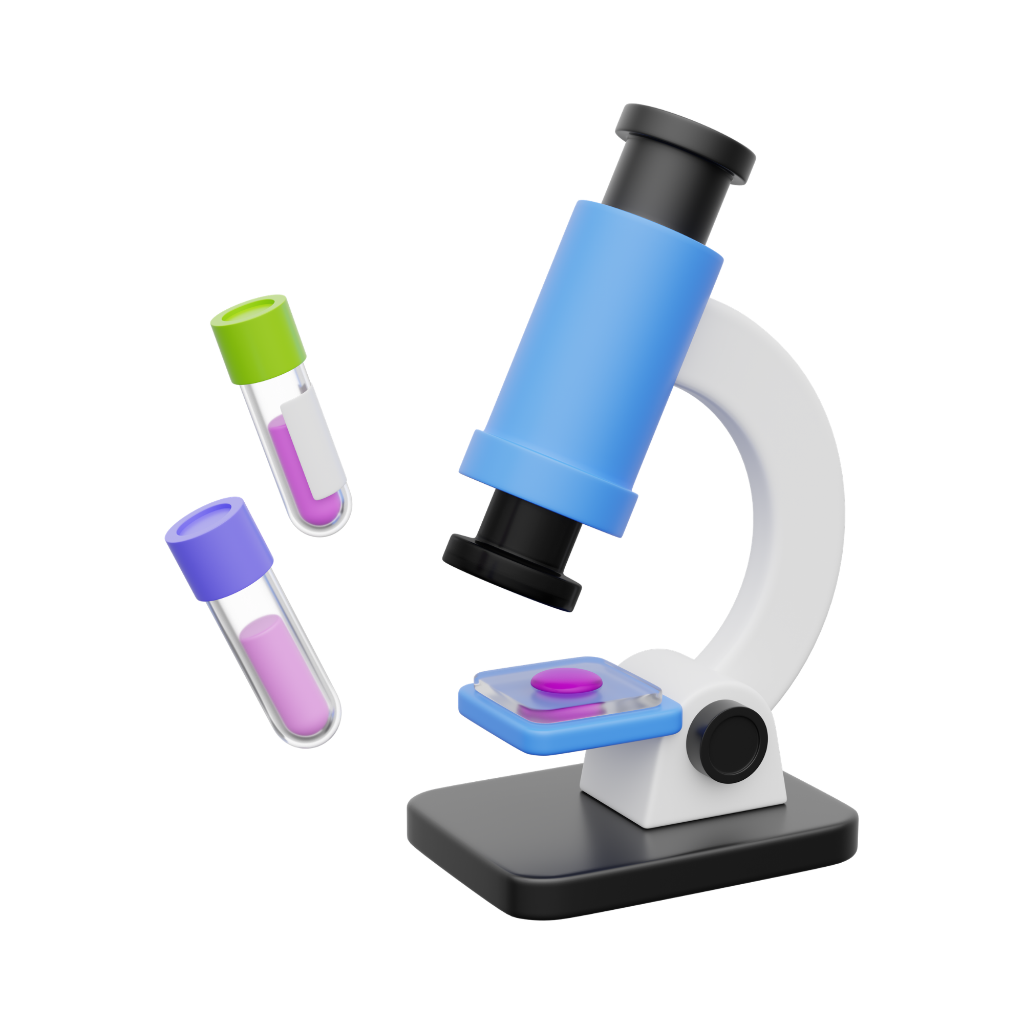
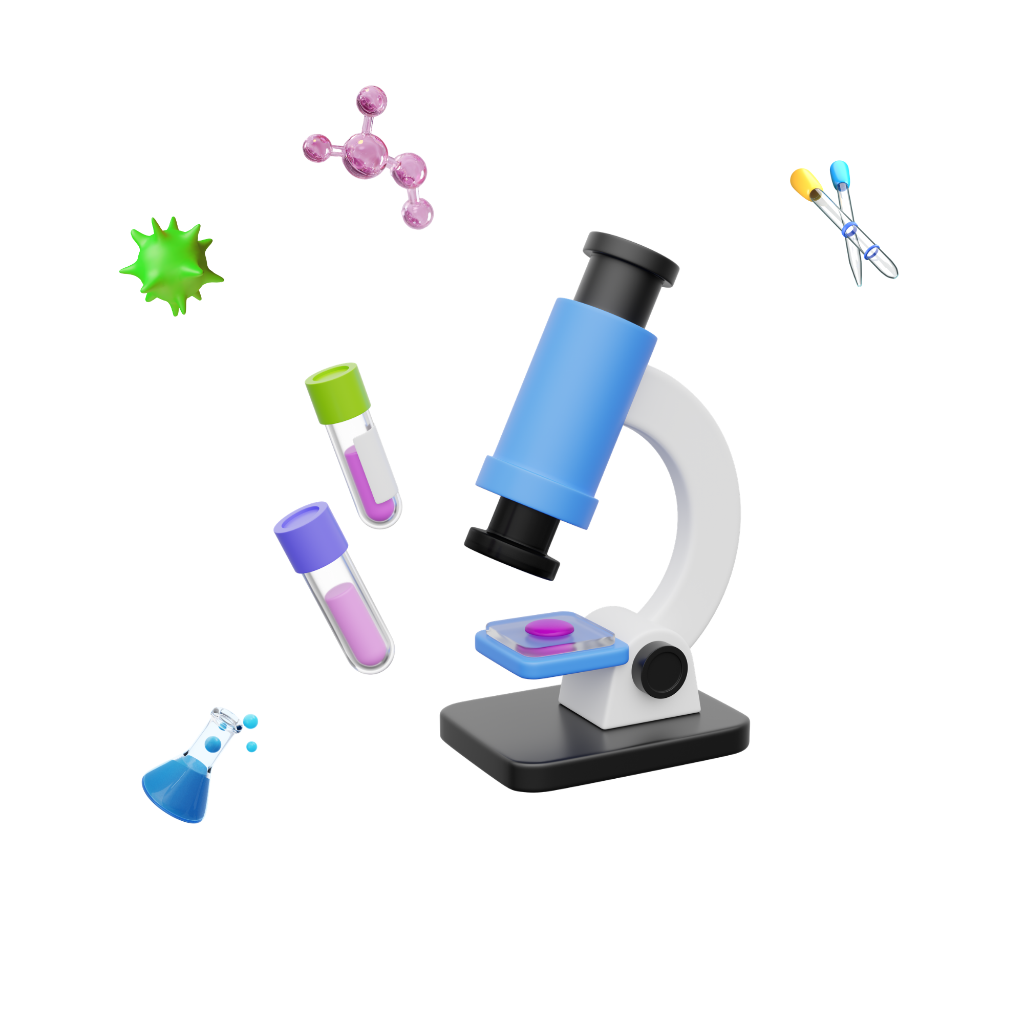
feat: update MicroscopeCenterpiece styling and enhance Home page layout

Changed region(s): [[0.375, 0.0938, 0.875, 0.9062], [0.125, 0.2188, 0.4062, 0.8125], [0.2812, 0.0625, 0.4375, 0.2188]]

diff --git a/src/pages/Home.tsx b/src/pages/Home.tsx
@@ -194,7 +194,7 @@ function PremiumReagentIcon({ name, className = "w-5 h-5" }: { name: string; cla
 
 function MicroscopeCenterpiece() {
   return (
-    <div className="relative w-full aspect-square max-w-[340px] lg:max-w-[420px] flex items-center justify-center mx-auto">
+    <div className="relative w-full aspect-square max-w-[340px] sm:max-w-[380px] lg:max-w-[460px] flex items-center justify-center mx-auto">
       {/* Outer soft glowing emerald circle */}
       <div className="absolute inset-0 bg-[radial-gradient(circle_at_center,rgba(32,199,122,0.12)_0%,transparent_70%)] animate-pulse" />
       
@@ -206,7 +206,7 @@ function MicroscopeCenterpiece() {
       <motion.div
         animate={{ y: [0, -8, 0] }}
         transition={{ duration: 6, repeat: Infinity, ease: "easeInOut" }}
-        className="relative z-10 w-[240px] h-[240px] flex items-center justify-center"
+        className="relative z-10 w-[92%] h-[92%] flex items-center justify-center"
       >
         <img 
           src="/reagents_microscope.png" 
@@ -311,146 +311,30 @@ export default function Home() {
           </div>
         </div>
       </section>
-{/* 2. SERVICES & CAPABILITIES SECTION */}
-<section className="py-20 md:py-28 px-6 bg-[#050505] text-white relative overflow-hidden border-t border-white/10">
-  <div className="max-w-[1400px] mx-auto relative z-10">
-    <div className="text-center max-w-3xl mx-auto mb-16">
-      <span className="text-[#FF4D00] text-xs font-semibold tracking-[0.2em] uppercase mb-4 block">
-        OUR CORE SERVICES & SOLUTIONS
-      </span>
-      <h2 className="text-[clamp(1.75rem,6vw,3.75rem)] font-bold tracking-tight text-white mb-6 leading-tight">
-        Biotechnology Services & <span className="text-[#FF4D00]">Capabilities</span>
-      </h2>
-      <p className="text-neutral-400 text-base md:text-lg font-light leading-relaxed">
-        Explore our core scientific offerings — from nucleic acid and protein research to laboratory reagents, computational analysis, and professional training.
-      </p>
-    </div>
-    <ServicesStrip />
-  </div>
-</section>
-      {/* 2. WHO WE ARE & STATS SECTION */}
-      <section className="py-20 md:py-24 px-6 bg-[#F5F5F3] relative overflow-hidden text-[#050505] border-t border-[#E5E5E5]/40">
-        {/* Subtle Molecular / DNA Wave Graphics Background */}
-        <div className="absolute right-0 top-1/2 -translate-y-1/2 w-[600px] h-[600px] opacity-[0.05] pointer-events-none z-0 select-none" aria-hidden="true">
-          <svg viewBox="0 0 400 400" fill="none" xmlns="http://www.w3.org/2000/svg" className="w-full h-full">
-            <path d="M50,200 Q100,100 150,200 T250,200 T350,200" stroke="#FF4D00" strokeWidth="2.5" />
-            <path d="M50,200 Q100,300 150,200 T250,200 T350,200" stroke="#FF4D00" strokeWidth="2.5" strokeDasharray="5 5" />
-            <line x1="100" y1="145" x2="100" y2="255" stroke="#FF4D00" strokeWidth="1" />
-            <line x1="150" y1="200" x2="150" y2="200" stroke="#FF4D00" strokeWidth="1" />
-            <line x1="200" y1="145" x2="200" y2="255" stroke="#FF4D00" strokeWidth="1" />
-            <line x1="250" y1="200" x2="250" y2="200" stroke="#FF4D00" strokeWidth="1" />
-            <line x1="300" y1="145" x2="300" y2="255" stroke="#FF4D00" strokeWidth="1" />
-          </svg>
-        </div>
-
+      {/* 1. SERVICES & CAPABILITIES SECTION */}
+      <section className="py-20 md:py-28 px-6 bg-[#050505] text-white relative overflow-hidden border-t border-white/10">
         <div className="max-w-[1400px] mx-auto relative z-10">
-          <div className="flex flex-col lg:flex-row w-full gap-12 lg:gap-20">
-            
-            {/* LEFT COLUMN: PRIMARY CONTENT AREA */}
-            <motion.div 
-              initial={{ opacity: 0, y: 30 }}
-              whileInView={{ opacity: 1, y: 0 }}
-              viewport={{ once: true, margin: "-100px" }}
-              transition={{ duration: 0.8, ease: [0.16, 1, 0.3, 1] }}
-              className="w-full lg:w-[45%] flex flex-col"
-            >
-              {/* Section Label */}
-              <span className="text-[#FF4D00] text-[10px] font-bold tracking-[0.2em] uppercase mb-4 sm:mb-6 block">
-                01 / WHO WE ARE
-              </span>
-
-              {/* Main Heading */}
-              <h2 className="text-[clamp(2.25rem,6vw,4.5rem)] font-medium text-[#050505] leading-[1.05] tracking-tight mb-6">
-                Science That<br />
-                Moves Research<br />
-                <span className="text-[#FF4D00] italic pr-4">Forward.</span>
-              </h2>
-
-              {/* Company Descriptions */}
-              <div className="space-y-4 mb-8 sm:mb-10 max-w-xl">
-                <p className="text-base leading-relaxed text-[#050505] font-medium">
-                  INNOVAC BIOTECHNOLOGIES provides biotechnology, molecular biology, protein research, reagents, computational biology, internship, and professional training solutions.
-                </p>
-                <p className="text-sm leading-relaxed text-neutral-500 font-light">
-                  Our goal is to empower researchers and organizations with practical scientific services and innovative biotechnology solutions.
-                </p>
-              </div>
-
-              {/* Learn More Button (Mobile only) */}
-              <div className="mt-8 sm:mt-12 flex justify-start w-full lg:hidden">
-                <Link 
-                  to="/about-us" 
-                  className="inline-flex items-center justify-center gap-3 bg-white border border-[#E5E5E5] hover:border-[#050505] text-[#050505] rounded-full px-8 py-4 text-[11px] sm:text-xs font-bold uppercase tracking-widest transition-all duration-300 group shadow-sm focus:outline-none whitespace-nowrap"
-                >
-                  <span>LEARN MORE ABOUT US</span>
-                  <ArrowRight size={14} className="group-hover:translate-x-1 transition-transform duration-300 shrink-0" />
-                </Link>
-              </div>
-            </motion.div>
-
-            {/* RIGHT COLUMN: Supporting Blocks Grid */}
-            <div className="w-full lg:w-[55%] flex flex-col mt-12 lg:mt-0">
-              <div className="grid grid-cols-1 md:grid-cols-2 gap-x-8 gap-y-10 lg:gap-y-12 content-start">
-                {[
-                  { num: '01', title: 'Integrated Research Platform', desc: 'Connected scientific services, research support, and expertise.', img: '/who_we_are_1.png' },
-                  { num: '02', title: 'Training Pathways', desc: 'Internship, workshop, and professional learning opportunities.', img: '/who_we_are_2.png' },
-                  { num: '03', title: 'Core Scientific Areas', desc: 'Focused expertise across key scientific and biotechnology domains.', img: '/who_we_are_3.png' },
-                  { num: '04', title: 'Service Categories', desc: 'A broad range of services supporting research and laboratory needs.', img: '/who_we_are_4.png' },
-                ].map((block, i) => (
-                  <motion.div 
-                    key={i}
-                    initial={{ opacity: 0, y: 20 }}
-                    whileInView={{ opacity: 1, y: 0 }}
-                    viewport={{ once: true, margin: "-50px" }}
-                    transition={{ duration: 0.6, delay: 0.1 * i }}
-                    className="flex flex-col group/block"
-                  >
-                    <div className="mb-2">
-                       <span className="text-3xl font-medium text-[#050505] tracking-tight group-hover/block:text-[#FF4D00] transition-colors">{block.num}</span>
-                       <div className="w-6 h-[1px] bg-[#050505]/20 group-hover/block:bg-[#FF4D00] mt-3 mb-5 transition-colors" />
-                    </div>
-                    
-                    <div className="flex items-start gap-4 sm:gap-5">
-                      {block.img ? (
-                        <div className="w-16 h-16 sm:w-20 sm:h-20 shrink-0 bg-white rounded-[12px] border border-[#E5E5E5]/60 flex items-center justify-center p-2 sm:p-2.5 shadow-sm group-hover/block:border-[#FF4D00]/30 transition-colors">
-                          <img src={block.img} alt={block.title} className="w-full h-full object-contain group-hover/block:scale-110 transition-transform duration-500" />
-                        </div>
-                      ) : (
-                        <div className="w-16 h-16 sm:w-20 sm:h-20 shrink-0 bg-white rounded-[12px] border border-[#E5E5E5]/60 flex items-center justify-center p-2 sm:p-2.5 shadow-sm group-hover/block:border-[#FF4D00]/30 transition-colors relative overflow-hidden">
-                          <div className="absolute inset-0 bg-[#F5F5F3] opacity-50" />
-                        </div>
-                      )}
-                      <div className="pt-1">
-                        <h3 className="text-[11px] sm:text-xs font-bold text-[#050505] uppercase tracking-widest mb-1.5 leading-tight">{block.title}</h3>
-                        <p className="text-[11px] sm:text-xs text-neutral-500 font-light leading-relaxed">{block.desc}</p>
-                      </div>
-                    </div>
-                  </motion.div>
-                ))}
-              </div>
-
-              {/* Learn More Button (Desktop only) */}
-              <div className="hidden lg:flex justify-center w-full mt-10 sm:mt-12">
-                <Link 
-                  to="/about-us" 
-                  className="inline-flex items-center justify-center gap-3 bg-white border border-[#E5E5E5] hover:border-[#050505] text-[#050505] rounded-full px-8 py-4 text-xs font-bold uppercase tracking-widest transition-all duration-300 group shadow-sm focus:outline-none whitespace-nowrap"
-                >
-                  <span>LEARN MORE ABOUT US</span>
-                  <ArrowRight size={14} className="group-hover:translate-x-1 transition-transform duration-300 shrink-0" />
-                </Link>
-              </div>
-            </div>
-
+          <div className="text-center max-w-3xl mx-auto mb-16">
+            <span className="text-[#FF4D00] text-xs font-semibold tracking-[0.2em] uppercase mb-4 block">
+              OUR CORE SERVICES & SOLUTIONS
+            </span>
+            <h2 className="text-[clamp(1.75rem,6vw,3.75rem)] font-bold tracking-tight text-white mb-6 leading-tight">
+              Biotechnology Services & <span className="text-[#FF4D00]">Capabilities</span>
+            </h2>
+            <p className="text-neutral-400 text-base md:text-lg font-light leading-relaxed">
+              Explore our core scientific offerings — from nucleic acid and protein research to laboratory reagents, computational analysis, and professional training.
+            </p>
           </div>
+          <ServicesStrip />
         </div>
       </section>
 
-      {/* 3. SERVICES SECTION */}
+      {/* 1. OUR SERVICES SECTION */}
       <section className="py-24 md:py-32 px-6 bg-white border-t border-border/40">
         <div className="max-w-[1400px] mx-auto">
           <div className="flex flex-col md:flex-row md:items-end justify-between mb-16 md:mb-24 gap-8">
             <SectionHeading 
-              label="02 / Our Services" 
+              label="01 / Our Services" 
               title="Biotechnology Services\nBuilt Around Your Research." 
               highlightWord="Research."
               className="mb-0 md:mb-0"
@@ -506,7 +390,8 @@ export default function Home() {
           </div>
         </div>
       </section>
-      {/* 4. REAGENTS SECTION (Dark Green Theme) */}
+
+      {/* 2. REAGENTS SECTION (Dark Green Theme) */}
       <section className="py-16 md:py-32 px-4 sm:px-6 bg-[#06140F] text-[#F2F7F4] relative overflow-hidden">
         {/* Subtle molecular pattern background - more visible on desktop */}
         <div className="absolute inset-0 opacity-5 lg:opacity-12">
@@ -519,7 +404,7 @@ export default function Home() {
           <div className="flex flex-col md:flex-row md:items-end justify-between mb-8 md:mb-12 gap-8">
             <div>
               <span className="text-[#20C77A] text-xs font-bold tracking-[0.25em] uppercase mb-4 block">
-                03 / REAGENTS
+                02 / REAGENTS
               </span>
               <h2 className="text-[clamp(2.25rem,6vw,4.5rem)] font-light tracking-tight leading-[1.05] text-[#F2F7F4]">
                 Laboratory Reagents for<br />
@@ -615,16 +500,16 @@ export default function Home() {
               }
 
               return (
-                <div className="grid grid-cols-1 lg:grid-cols-12 gap-8 lg:gap-12 items-center relative z-10">
+                <div className="grid grid-cols-1 lg:grid-cols-12 gap-4 lg:gap-5 items-center relative z-10">
                   
                   {/* Left Column: Synthesis */}
                   <div className="lg:col-span-4 flex flex-col w-full h-full">
                     <div className="mb-6 group/title">
                       <div className="flex items-center gap-3 mb-2 text-[#20C77A]">
-                        <Beaker size={20} />
-                        <h3 className="text-sm font-bold uppercase tracking-[0.25em]">Synthesis</h3>
+                        <Beaker size={26} className="text-[#20C77A] shrink-0" />
+                        <h3 className="text-lg sm:text-xl font-bold uppercase tracking-[0.2em] sm:tracking-[0.25em] text-[#F2F7F4]">Synthesis</h3>
                       </div>
-                      <div className="w-12 h-0.5 bg-[#20C77A] rounded-full transform origin-left group-hover/title:w-20 transition-all duration-300" />
+                      <div className="w-16 h-1 bg-[#20C77A] rounded-full transform origin-left group-hover/title:w-24 transition-all duration-300" />
                     </div>
                     
                     {filteredSynthesis.length > 0 ? (
@@ -678,7 +563,7 @@ export default function Home() {
                   </div>
 
                   {/* Center Column: Microscope Centerpiece */}
-                  <div className="lg:col-span-4 flex justify-center items-center py-6 lg:py-0 w-full">
+                  <div className="lg:col-span-4 flex justify-center items-center py-4 lg:py-0 w-full">
                     <MicroscopeCenterpiece />
                   </div>
 
@@ -686,10 +571,10 @@ export default function Home() {
                   <div className="lg:col-span-4 flex flex-col w-full h-full">
                     <div className="mb-6 group/title">
                       <div className="flex items-center gap-3 mb-2 text-[#20C77A]">
-                        <Thermometer size={20} />
-                        <h3 className="text-sm font-bold uppercase tracking-[0.25em]">Supply</h3>
+                        <Thermometer size={26} className="text-[#20C77A] shrink-0" />
+                        <h3 className="text-lg sm:text-xl font-bold uppercase tracking-[0.2em] sm:tracking-[0.25em] text-[#F2F7F4]">Supply</h3>
                       </div>
-                      <div className="w-12 h-0.5 bg-[#20C77A] rounded-full transform origin-left group-hover/title:w-20 transition-all duration-300" />
+                      <div className="w-16 h-1 bg-[#20C77A] rounded-full transform origin-left group-hover/title:w-24 transition-all duration-300" />
                     </div>
 
                     {filteredSupply.length > 0 ? (
@@ -827,6 +712,123 @@ export default function Home() {
             ))}
           </div>
 
+        </div>
+      </section>
+
+      {/* 3. WHO WE ARE & STATS SECTION */}
+      <section className="py-20 md:py-24 px-6 bg-[#F5F5F3] relative overflow-hidden text-[#050505] border-t border-[#E5E5E5]/40">
+        {/* Subtle Molecular / DNA Wave Graphics Background */}
+        <div className="absolute right-0 top-1/2 -translate-y-1/2 w-[600px] h-[600px] opacity-[0.05] pointer-events-none z-0 select-none" aria-hidden="true">
+          <svg viewBox="0 0 400 400" fill="none" xmlns="http://www.w3.org/2000/svg" className="w-full h-full">
+            <path d="M50,200 Q100,100 150,200 T250,200 T350,200" stroke="#FF4D00" strokeWidth="2.5" />
+            <path d="M50,200 Q100,300 150,200 T250,200 T350,200" stroke="#FF4D00" strokeWidth="2.5" strokeDasharray="5 5" />
+            <line x1="100" y1="145" x2="100" y2="255" stroke="#FF4D00" strokeWidth="1" />
+            <line x1="150" y1="200" x2="150" y2="200" stroke="#FF4D00" strokeWidth="1" />
+            <line x1="200" y1="145" x2="200" y2="255" stroke="#FF4D00" strokeWidth="1" />
+            <line x1="250" y1="200" x2="250" y2="200" stroke="#FF4D00" strokeWidth="1" />
+            <line x1="300" y1="145" x2="300" y2="255" stroke="#FF4D00" strokeWidth="1" />
+          </svg>
+        </div>
+
+        <div className="max-w-[1400px] mx-auto relative z-10">
+          <div className="flex flex-col lg:flex-row w-full gap-12 lg:gap-20">
+            
+            {/* LEFT COLUMN: PRIMARY CONTENT AREA */}
+            <motion.div 
+              initial={{ opacity: 0, y: 30 }}
+              whileInView={{ opacity: 1, y: 0 }}
+              viewport={{ once: true, margin: "-100px" }}
+              transition={{ duration: 0.8, ease: [0.16, 1, 0.3, 1] }}
+              className="w-full lg:w-[45%] flex flex-col"
+            >
+              {/* Section Label */}
+              <span className="text-[#FF4D00] text-[10px] font-bold tracking-[0.2em] uppercase mb-4 sm:mb-6 block">
+                03 / WHO WE ARE
+              </span>
+
+              {/* Main Heading */}
+              <h2 className="text-[clamp(2.25rem,6vw,4.5rem)] font-medium text-[#050505] leading-[1.05] tracking-tight mb-6">
+                Science That<br />
+                Moves Research<br />
+                <span className="text-[#FF4D00] italic pr-4">Forward.</span>
+              </h2>
+
+              {/* Company Descriptions */}
+              <div className="space-y-4 mb-8 sm:mb-10 max-w-xl">
+                <p className="text-base leading-relaxed text-[#050505] font-medium">
+                  INNOVAC BIOTECHNOLOGIES provides biotechnology, molecular biology, protein research, reagents, computational biology, internship, and professional training solutions.
+                </p>
+                <p className="text-sm leading-relaxed text-neutral-500 font-light">
+                  Our goal is to empower researchers and organizations with practical scientific services and innovative biotechnology solutions.
+                </p>
+              </div>
+
+              {/* Learn More Button (Mobile only) */}
+              <div className="mt-8 sm:mt-12 flex justify-start w-full lg:hidden">
+                <Link 
+                  to="/about-us" 
+                  className="inline-flex items-center justify-center gap-3 bg-white border border-[#E5E5E5] hover:border-[#050505] text-[#050505] rounded-full px-8 py-4 text-[11px] sm:text-xs font-bold uppercase tracking-widest transition-all duration-300 group shadow-sm focus:outline-none whitespace-nowrap"
+                >
+                  <span>LEARN MORE ABOUT US</span>
+                  <ArrowRight size={14} className="group-hover:translate-x-1 transition-transform duration-300 shrink-0" />
+                </Link>
+              </div>
+            </motion.div>
+
+            {/* RIGHT COLUMN: Supporting Blocks Grid */}
+            <div className="w-full lg:w-[55%] flex flex-col mt-12 lg:mt-0">
+              <div className="grid grid-cols-1 md:grid-cols-2 gap-x-8 gap-y-10 lg:gap-y-12 content-start">
+                {[
+                  { num: '01', title: 'Integrated Research Platform', desc: 'Connected scientific services, research support, and expertise.', img: '/who_we_are_1.png' },
+                  { num: '02', title: 'Training Pathways', desc: 'Internship, workshop, and professional learning opportunities.', img: '/who_we_are_2.png' },
+                  { num: '03', title: 'Core Scientific Areas', desc: 'Focused expertise across key scientific and biotechnology domains.', img: '/who_we_are_3.png' },
+                  { num: '04', title: 'Service Categories', desc: 'A broad range of services supporting research and laboratory needs.', img: '/who_we_are_4.png' },
+                ].map((block, i) => (
+                  <motion.div 
+                    key={i}
+                    initial={{ opacity: 0, y: 20 }}
+                    whileInView={{ opacity: 1, y: 0 }}
+                    viewport={{ once: true, margin: "-50px" }}
+                    transition={{ duration: 0.6, delay: 0.1 * i }}
+                    className="flex flex-col group/block"
+                  >
+                    <div className="mb-2">
+                       <span className="text-3xl font-medium text-[#050505] tracking-tight group-hover/block:text-[#FF4D00] transition-colors">{block.num}</span>
+                       <div className="w-6 h-[1px] bg-[#050505]/20 group-hover/block:bg-[#FF4D00] mt-3 mb-5 transition-colors" />
+                    </div>
+                    
+                    <div className="flex items-start gap-4 sm:gap-5">
+                      {block.img ? (
+                        <div className="w-16 h-16 sm:w-20 sm:h-20 shrink-0 bg-white rounded-[12px] border border-[#E5E5E5]/60 flex items-center justify-center p-2 sm:p-2.5 shadow-sm group-hover/block:border-[#FF4D00]/30 transition-colors">
+                          <img src={block.img} alt={block.title} className="w-full h-full object-contain group-hover/block:scale-110 transition-transform duration-500" />
+                        </div>
+                      ) : (
+                        <div className="w-16 h-16 sm:w-20 sm:h-20 shrink-0 bg-white rounded-[12px] border border-[#E5E5E5]/60 flex items-center justify-center p-2 sm:p-2.5 shadow-sm group-hover/block:border-[#FF4D00]/30 transition-colors relative overflow-hidden">
+                          <div className="absolute inset-0 bg-[#F5F5F3] opacity-50" />
+                        </div>
+                      )}
+                      <div className="pt-1">
+                        <h3 className="text-[11px] sm:text-xs font-bold text-[#050505] uppercase tracking-widest mb-1.5 leading-tight">{block.title}</h3>
+                        <p className="text-[11px] sm:text-xs text-neutral-500 font-light leading-relaxed">{block.desc}</p>
+                      </div>
+                    </div>
+                  </motion.div>
+                ))}
+              </div>
+
+              {/* Learn More Button (Desktop only) */}
+              <div className="hidden lg:flex justify-center w-full mt-10 sm:mt-12">
+                <Link 
+                  to="/about-us" 
+                  className="inline-flex items-center justify-center gap-3 bg-white border border-[#E5E5E5] hover:border-[#050505] text-[#050505] rounded-full px-8 py-4 text-xs font-bold uppercase tracking-widest transition-all duration-300 group shadow-sm focus:outline-none whitespace-nowrap"
+                >
+                  <span>LEARN MORE ABOUT US</span>
+                  <ArrowRight size={14} className="group-hover:translate-x-1 transition-transform duration-300 shrink-0" />
+                </Link>
+              </div>
+            </div>
+
+          </div>
         </div>
       </section>
 
